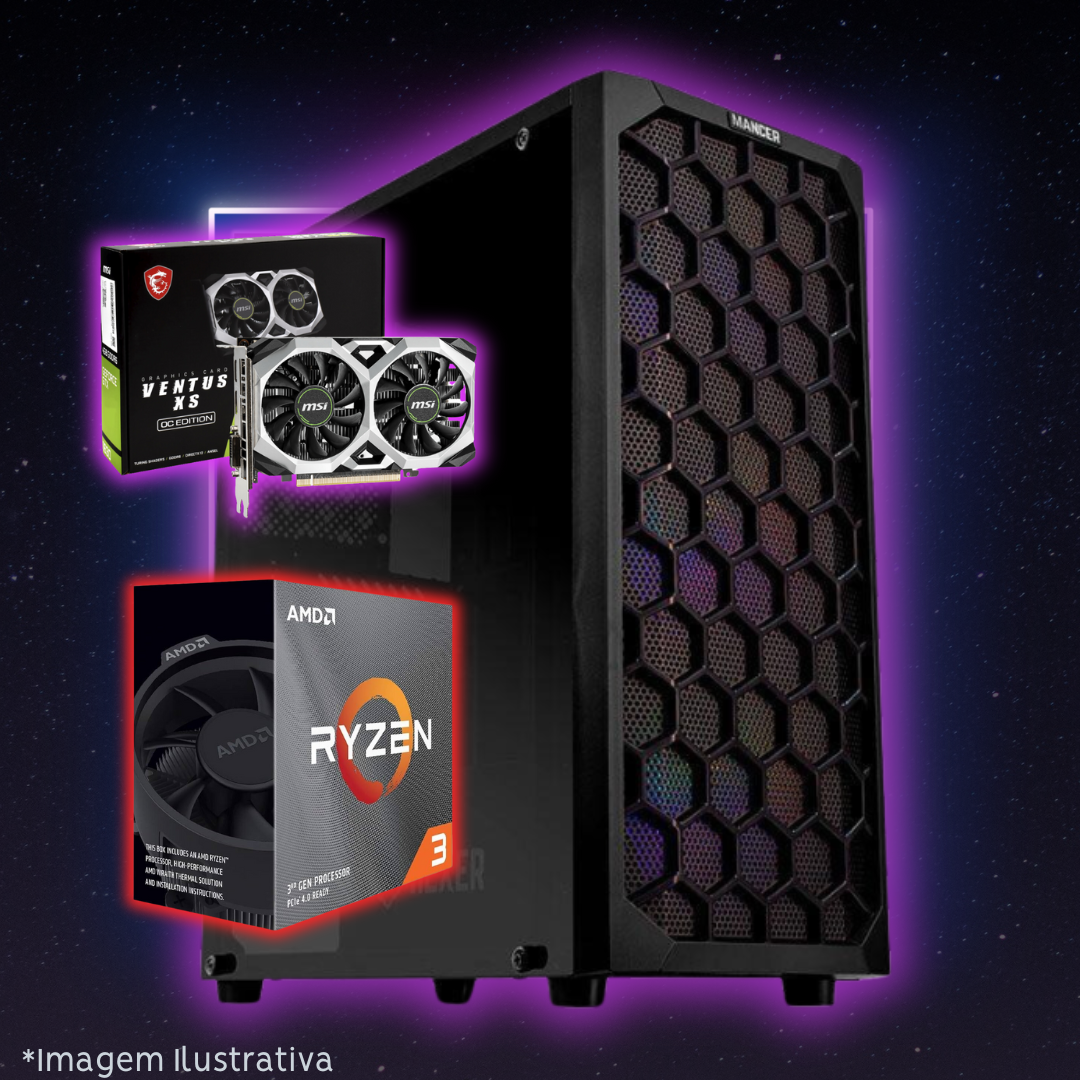
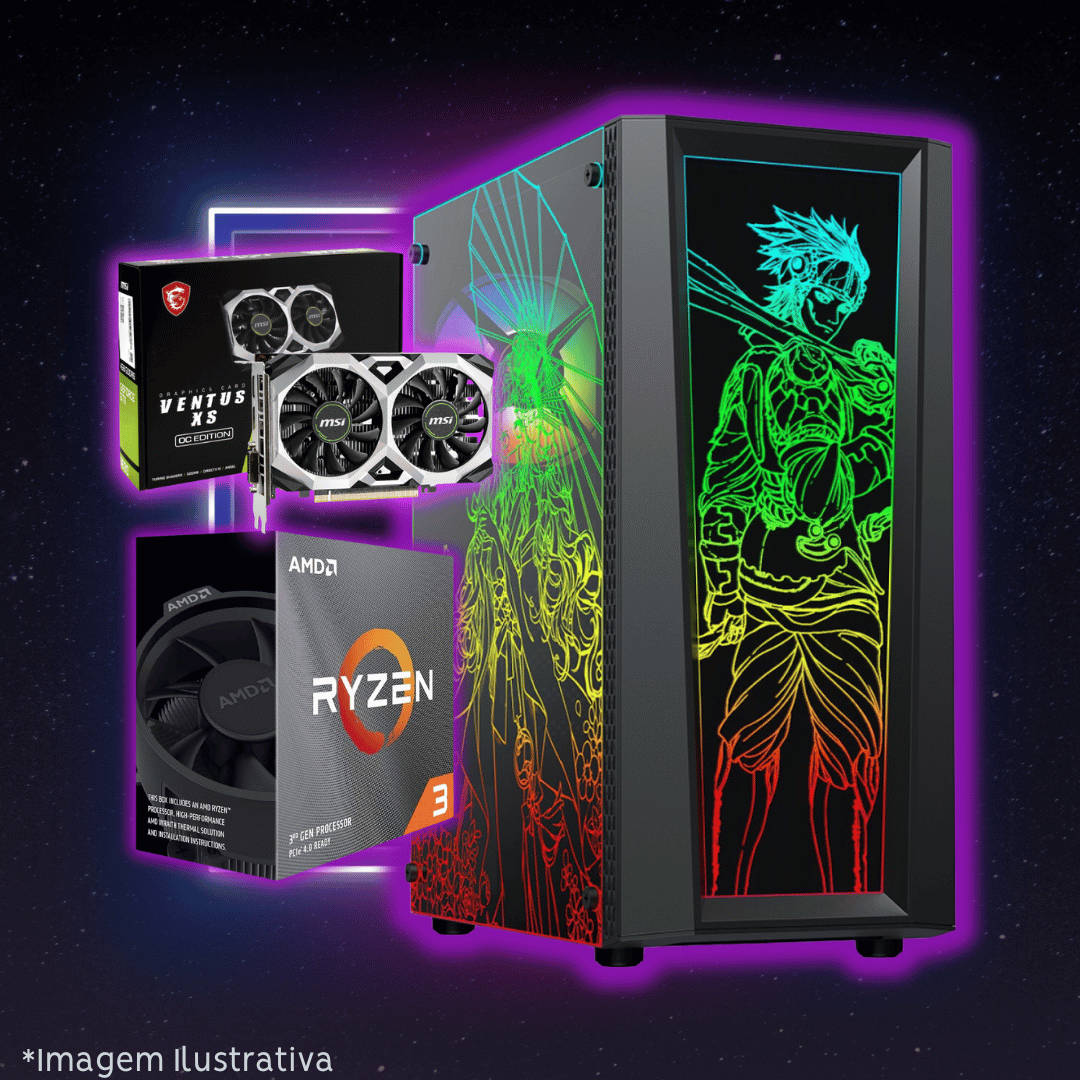
Updating Catalog

diff --git a/src/routes/amd/+page.svelte b/src/routes/amd/+page.svelte
@@ -13,14 +13,14 @@
       text: "💥 LEAGUE OF LEGENDS\n🌎 MINECRAFT\n🟥 ROBLOX\n🔫 VALORANT\n🔫 WARZONE (GRÁFICOS Médios/Baixos)\n🔫 CSGO 2\n🦙 FORTNITE\n\n*Placa Mãe:* A520\n*Processador:* RYZEN 5 4600G\n*Memória RAM:* 2x8GB(16GB) DDR4\n*Placa de Vídeo:* VEGA 7 (INTEGRADO)\n*Armazenamento:* SSD 240GB\n*Gabinete:* GAMER C/ 3 FANS RGB RGB FRONTAIS\n*Fonte:* 500W\n\nPOR APENAS *R$ 2.390,00* em até 10x sem juros!",
     },
     {
-      title: "(PC0001)GAMER RYZEN 5600G",
+      title: "(PC0001) GAMER RYZEN 5600G",
       image: "Ryzen5600G.png",
       text: "💥 LEAGUE OF LEGENDS\n🌎 MINECRAFT\n🟥 ROBLOX\n🔫 VALORANT\n🔫 WARZONE(GRÁFICOS Médios/Baixos)\n🔫 CSGO 2\n🦙 FORTNITE\n\n*Placa Mãe:* A520\n*Processador:* RYZEN 5 5600G\n*Memória RAM:* 2x8GB(16GB) DDR4\n*Placa de Vídeo:* VEGA 7 (INTEGRADO)\n*Armazenamento:* SSD 240GB\n*Gabinete:* GAMER C/ 3 FANS RGB RGB FRONTAIS\n*Fonte:* 500W\n\nDE ~R$ 2.990,00~ POR APENAS *R$ 2.690,00* em até 10x sem juros!",
     },
     {
-      title: "RYZEN 4500 + GTX 1650",
+      title: "(PC0025) RYZEN 4500 + GTX 1650",
       image: "4500+1650.png",
-      text: "💥 LEAGUE OF LEGENDS\n🌎 MINECRAFT\n🟥 ROBLOX\n🔫 VALORANT\n🔫 WARZONE\n🔫 CSGO 2\n🦙 FORTNITE\n\n*Processador:* RYZEN 5 4500\n*Placa Mãe:* A320\n*Memória RAM:* 2x8GB DDR4\n*Placa de Vídeo:* GTX 1650 4GB\n*Armazenamento:* SSD 512GB\n*Gabinete:* GAMER HAYOM C/3 FANS RGB\n*Fonte:* 500W\n\nPOR APENAS *R$ 3.590,00* em até 10x sem juros!",
+      text: "💥 LEAGUE OF LEGENDS\n🌎 MINECRAFT\n🟥 ROBLOX\n🔫 VALORANT\n🔫 WARZONE\n🔫 CSGO 2\n🦙 FORTNITE\n\n*Processador:* RYZEN 5 4500\n*Placa Mãe:* A320\n*Memória RAM:* 2x8GB DDR4\n*Placa de Vídeo:* GTX 1650 4GB\n*Armazenamento:* SSD 512GB\n*Gabinete:* GAMER ERASER\n*Fonte:* 500W\n\nPOR APENAS *R$ 3.590,00* em até 10x sem juros!",
     },
     {
       title: "Ryzen 5 4500 + RX 580",
